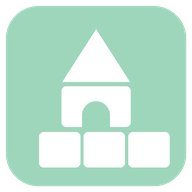
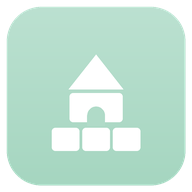
Add files via upload

diff --git a/index.html b/index.html
@@ -6,9 +6,10 @@
   <meta name="theme-color" content="#17213d">
   <meta name="description" content="אפליקציית גן מזור – מידע, אלבומים, קהילה וועד הגן">
   <title>גן מזור</title>
-  <link rel="manifest" href="manifest.json">
-  <link rel="icon" href="assets/icon.svg?v=20260728-11" type="image/svg+xml">
-  <link rel="stylesheet" href="styles.css?v=20260728-11">
+  <link rel="manifest" href="manifest.json?v=20260728-12">
+  <link rel="icon" href="assets/icon.svg?v=20260728-12" type="image/svg+xml">
+  <link rel="apple-touch-icon" href="assets/icon-192.png?v=20260728-12">
+  <link rel="stylesheet" href="styles.css?v=20260728-12">
 </head>
 <body>
   <div class="app-shell">
@@ -452,7 +453,7 @@
   <div class="toast" id="toast" role="status" aria-live="polite"></div>
   <script src="config.js?v=20260728-4"></script>
   <script src="https://cdn.jsdelivr.net/npm/@supabase/supabase-js@2"></script>
-  <script src="state.js?v=20260728-11"></script>
-  <script src="app.js?v=20260728-11"></script>
+  <script src="state.js?v=20260728-12"></script>
+  <script src="app.js?v=20260728-12"></script>
 </body>
 </html>

diff --git a/sw.js b/sw.js
@@ -1,7 +1,7 @@
-const CACHE = "gan-mazor-v11-20260728";
+const CACHE = "gan-mazor-v12-20260728";
 const STATIC_ASSETS = [
   "./styles.css", "./admin.css", "./manifest.json",
-  "./assets/icon.svg", "./assets/icon-192.png", "./assets/icon-512.png", "./assets/staff-yael.svg", "./assets/staff-michal.svg",
+  "./assets/icon.svg", "./assets/icon-192.png", "./assets/icon-512.png", "./assets/icon-maskable-192.png", "./assets/icon-maskable-512.png", "./assets/staff-yael.svg", "./assets/staff-michal.svg",
   "./assets/staff-liron.svg", "./assets/staff-shira.svg", "./assets/kid-noam.svg", "./assets/kid-aya.svg",
   "./assets/album-1.svg", "./assets/album-2.svg", "./assets/album-3.svg", "./assets/album-4.svg",
   "./assets/album-5.svg", "./assets/album-6.svg", "./assets/album-7.svg", "./assets/album-8.svg"

diff --git a/app.js b/app.js
@@ -738,7 +738,7 @@
   });
 
   if ("serviceWorker" in navigator) {
-    window.addEventListener("load", () => navigator.serviceWorker.register("sw.js?v=20260728-11").catch(console.warn));
+    window.addEventListener("load", () => navigator.serviceWorker.register("sw.js?v=20260728-12").catch(console.warn));
   }
 
   initialize();
